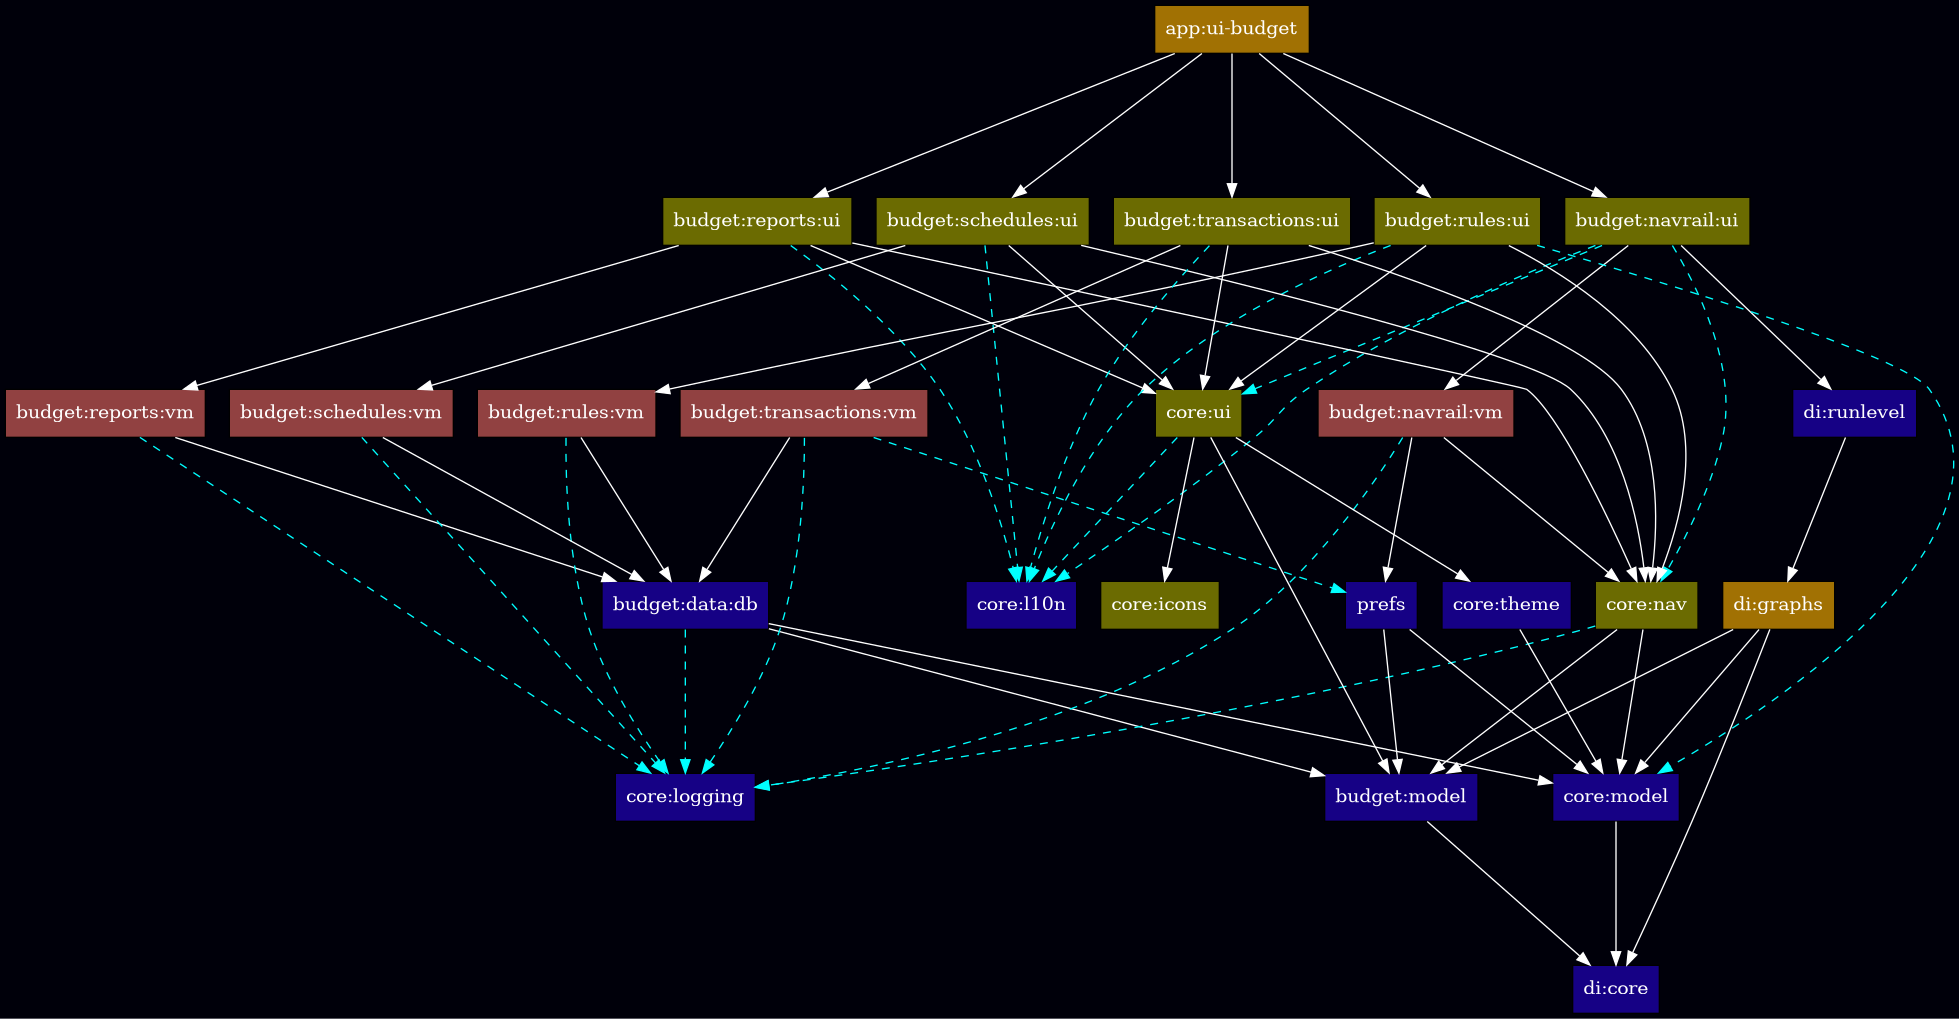
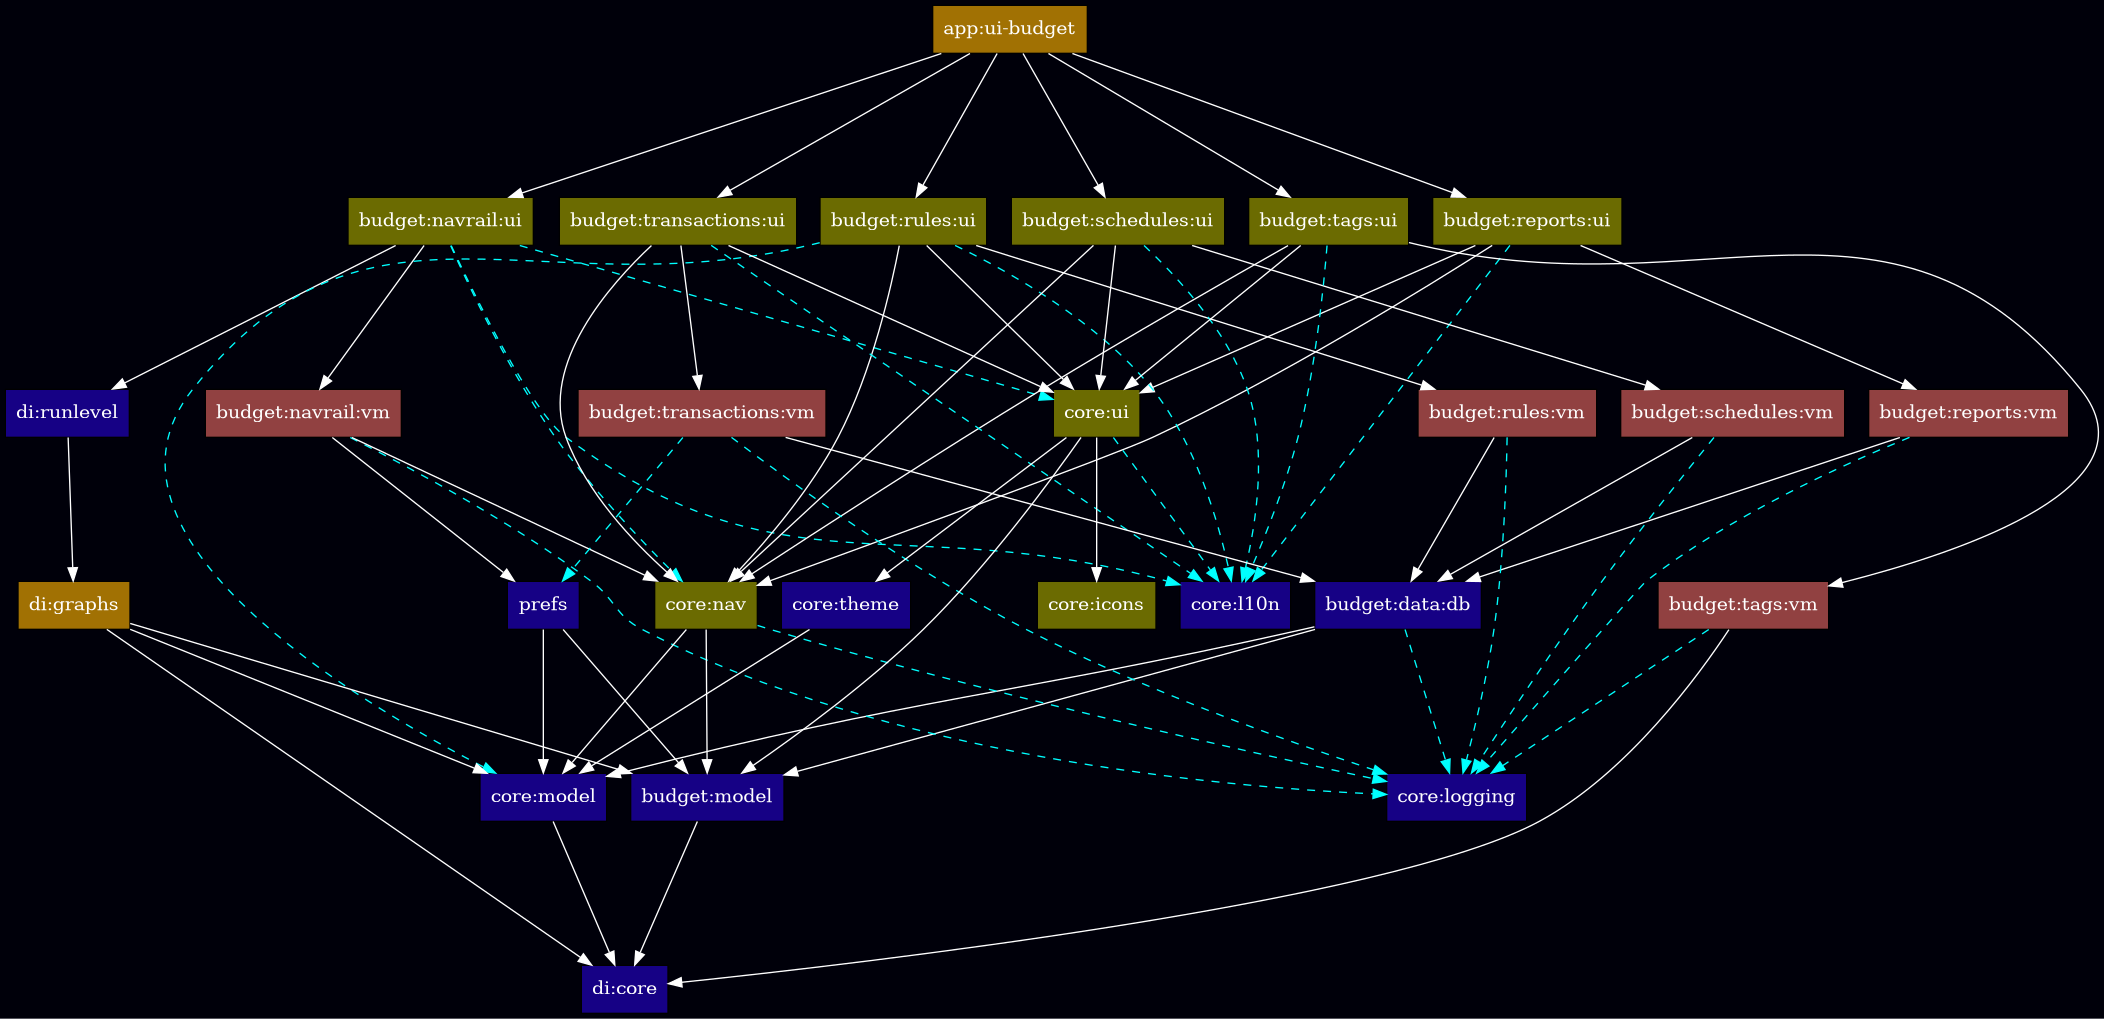
Started

diff --git a/aktual-budget/tags/ui/src/commonMain/kotlin/aktual/budget/tags/ui/list/ListTagsScreen.kt b/aktual-budget/tags/ui/src/commonMain/kotlin/aktual/budget/tags/ui/list/ListTagsScreen.kt
@@ -1,0 +1,64 @@
+package aktual.budget.tags.ui.list
+
+import aktual.budget.tags.vm.list.ListTagsViewModel
+import aktual.core.l10n.Strings
+import aktual.core.theme.Colors
+import aktual.core.ui.AktualTheme.colors
+import aktual.core.ui.ColoredParameters
+import aktual.core.ui.PageBackground
+import aktual.core.ui.PreviewWithColors
+import aktual.core.ui.blurredTopBar
+import aktual.core.ui.rememberBlurredTopBarState
+import aktual.core.ui.transparentTopAppBarColors
+import androidx.compose.foundation.layout.Box
+import androidx.compose.foundation.layout.fillMaxSize
+import androidx.compose.foundation.layout.padding
+import androidx.compose.foundation.lazy.LazyColumn
+import androidx.compose.foundation.lazy.rememberLazyListState
+import androidx.compose.material3.Scaffold
+import androidx.compose.material3.Text
+import androidx.compose.material3.TopAppBar
+import androidx.compose.runtime.Composable
+import androidx.compose.ui.Modifier
+import androidx.compose.ui.tooling.preview.Preview
+import androidx.compose.ui.tooling.preview.PreviewParameter
+import dev.zacsweers.metrox.viewmodel.metroViewModel
+
+@Composable
+internal fun ListTagsScreen(
+  modifier: Modifier = Modifier,
+  @Suppress("UNUSED_PARAMETER") viewModel: ListTagsViewModel = metroViewModel(),
+) {
+  ListTagsScaffold(modifier = modifier)
+}
+
+@Composable
+private fun ListTagsScaffold(modifier: Modifier = Modifier) {
+  val blurState = rememberBlurredTopBarState()
+  val listState = rememberLazyListState()
+
+  Scaffold(
+    modifier = modifier.fillMaxSize(),
+    topBar = {
+      TopAppBar(
+        modifier = Modifier.blurredTopBar(blurState, listState),
+        colors = colors.transparentTopAppBarColors(),
+        title = { Text(text = Strings.tagsTitle) },
+      )
+    },
+  ) { innerPadding ->
+    Box(modifier = Modifier.fillMaxSize()) {
+      PageBackground()
+
+      // Empty for now — content lands here once tags are loaded
+      LazyColumn(modifier = Modifier.fillMaxSize().padding(innerPadding), state = listState) {
+        // TBC
+      }
+    }
+  }
+}
+
+@Preview
+@Composable
+private fun PreviewListTagsScaffold(@PreviewParameter(ColoredParameters::class) colors: Colors) =
+  PreviewWithColors(colors) { ListTagsScaffold() }

diff --git a/aktual-budget/tags/ui/src/commonMain/kotlin/aktual/budget/tags/ui/TagsNavEntryContributor.kt b/aktual-budget/tags/ui/src/commonMain/kotlin/aktual/budget/tags/ui/TagsNavEntryContributor.kt
@@ -1,0 +1,18 @@
+package aktual.budget.tags.ui
+
+import aktual.budget.tags.ui.list.ListTagsScreen
+import aktual.core.nav.BudgetNavEntryContributor
+import aktual.core.nav.BudgetNavKey
+import aktual.core.nav.ListTagsNavRoute
+import aktual.core.nav.NavStack
+import aktual.core.nav.budgetEntry
+import aktual.di.BudgetScope
+import androidx.navigation3.runtime.EntryProviderScope
+import dev.zacsweers.metro.ContributesIntoSet
+
+@ContributesIntoSet(BudgetScope::class)
+class TagsNavEntryContributor : BudgetNavEntryContributor {
+  override fun contribute(scope: EntryProviderScope<BudgetNavKey>, stack: NavStack<BudgetNavKey>) {
+    scope.budgetEntry<ListTagsNavRoute> { ListTagsScreen() }
+  }
+}

diff --git a/aktual-budget/tags/vm/src/commonMain/kotlin/aktual/budget/tags/vm/list/ListTagsViewModel.kt b/aktual-budget/tags/vm/src/commonMain/kotlin/aktual/budget/tags/vm/list/ListTagsViewModel.kt
@@ -1,0 +1,14 @@
+package aktual.budget.tags.vm.list
+
+import aktual.di.BudgetScope
+import androidx.compose.runtime.Stable
+import androidx.lifecycle.ViewModel
+import dev.zacsweers.metro.ContributesIntoMap
+import dev.zacsweers.metrox.viewmodel.ViewModelKey
+
+@Stable
+@ViewModelKey
+@ContributesIntoMap(BudgetScope::class)
+class ListTagsViewModel : ViewModel() {
+  // TBC
+}

diff --git a/aktual-budget/navrail/ui/src/commonMain/kotlin/aktual/budget/navrail/ui/NavSheetItem.kt b/aktual-budget/navrail/ui/src/commonMain/kotlin/aktual/budget/navrail/ui/NavSheetItem.kt
@@ -3,6 +3,7 @@ package aktual.budget.navrail.ui
 import aktual.core.icons.AktualIcons
 import aktual.core.icons.Calendar3
 import aktual.core.icons.Reports
+import aktual.core.icons.Tag
 import aktual.core.icons.Tuning
 import aktual.core.icons.material.Info
 import aktual.core.icons.material.LinearScale
@@ -77,6 +78,7 @@ internal fun BudgetTab.label(): String =
     BudgetTab.Reports -> Strings.reportsTitle
     BudgetTab.Schedules -> Strings.listSchedulesTitle
     BudgetTab.Rules -> Strings.rulesTitle
+    BudgetTab.Tags -> Strings.tagsTitle
     BudgetTab.SwitchBudget -> Strings.budgetNavMenuSwitchBudget
     BudgetTab.LogOut -> Strings.budgetNavMenuLogOut
     BudgetTab.Settings -> Strings.budgetNavMenuSettings
@@ -90,6 +92,7 @@ internal fun BudgetTab.icon(): ImageVector =
     BudgetTab.Reports -> AktualIcons.Reports
     BudgetTab.Schedules -> AktualIcons.Calendar3
     BudgetTab.Rules -> AktualIcons.Tuning
+    BudgetTab.Tags -> AktualIcons.Tag
     BudgetTab.SwitchBudget -> MaterialIcons.SwapHoriz
     BudgetTab.LogOut -> MaterialIcons.Logout
     BudgetTab.Settings -> MaterialIcons.Settings
@@ -106,5 +109,6 @@ internal fun BudgetTab.asNavAction(): BudgetNavAction? =
     BudgetTab.Transactions,
     BudgetTab.Reports,
     BudgetTab.Schedules,
-    BudgetTab.Rules -> null
+    BudgetTab.Rules,
+    BudgetTab.Tags -> null
   }

diff --git a/aktual-core/nav/src/commonMain/kotlin/aktual/core/nav/BudgetNavKey.kt b/aktual-core/nav/src/commonMain/kotlin/aktual/core/nav/BudgetNavKey.kt
@@ -32,4 +32,10 @@ sealed interface BudgetNavKey : NavKey {
     override val tab: BudgetTab
       get() = BudgetTab.Schedules
   }
+
+  @Immutable
+  sealed interface Tags : BudgetNavKey {
+    override val tab: BudgetTab
+      get() = BudgetTab.Tags
+  }
 }

diff --git a/aktual-budget/navrail/ui/src/commonMain/kotlin/aktual/budget/navrail/ui/BudgetNavRail.kt b/aktual-budget/navrail/ui/src/commonMain/kotlin/aktual/budget/navrail/ui/BudgetNavRail.kt
@@ -17,6 +17,7 @@ import aktual.core.nav.BudgetNavKey
 import aktual.core.nav.BudgetTab
 import aktual.core.nav.ListRulesNavRoute
 import aktual.core.nav.ListSchedulesNavRoute
+import aktual.core.nav.ListTagsNavRoute
 import aktual.core.nav.NavStack
 import aktual.core.nav.NavStackImpl
 import aktual.core.nav.ReportsListNavRoute
@@ -118,14 +119,16 @@ internal fun BudgetNavRail(
   val reportsStack = stackWithDefault(ReportsListNavRoute)
   val schedulesStack = stackWithDefault(ListSchedulesNavRoute)
   val rulesStack = stackWithDefault(ListRulesNavRoute)
+  val tagsStack = stackWithDefault(ListTagsNavRoute)
 
   val tabStacks =
-    remember(transactionsStack, reportsStack, rulesStack) {
+    remember(transactionsStack, reportsStack, schedulesStack, rulesStack, tagsStack) {
       persistentMapOf(
         BudgetTab.Transactions to transactionsStack,
         BudgetTab.Reports to reportsStack,
         BudgetTab.Schedules to schedulesStack,
         BudgetTab.Rules to rulesStack,
+        BudgetTab.Tags to tagsStack,
       )
     }
 

diff --git a/aktual-core/nav/src/commonMain/kotlin/aktual/core/nav/BudgetNavigators.kt b/aktual-core/nav/src/commonMain/kotlin/aktual/core/nav/BudgetNavigators.kt
@@ -48,3 +48,8 @@ class EditScheduleNavigator(private val stack: NavStack<BudgetNavKey>) {
 
   operator fun invoke() = stack.push(CreateScheduleNavRoute)
 }
+
+@Immutable
+class ListTagsNavigator(private val stack: NavStack<BudgetNavKey>) {
+  operator fun invoke() = stack.push(ListTagsNavRoute)
+}

diff --git a/aktual-test/smoke/src/commonTest/kotlin/aktual/test/ViewModelSmokeTest.kt b/aktual-test/smoke/src/commonTest/kotlin/aktual/test/ViewModelSmokeTest.kt
@@ -13,6 +13,7 @@ import aktual.budget.rules.vm.edit.EditRuleViewModel
 import aktual.budget.rules.vm.list.ListRulesViewModel
 import aktual.budget.schedules.vm.list.ListSchedulesViewModel
 import aktual.budget.sync.vm.SyncBudgetViewModel
+import aktual.budget.tags.vm.list.ListTagsViewModel
 import aktual.budget.transactions.vm.TransactionsViewModel
 import aktual.core.theme.DarkColors
 import aktual.metrics.vm.MetricsViewModel
@@ -102,6 +103,8 @@ abstract class ViewModelSmokeTest<G : TestAppGraph> {
   @Test fun listRules() = testSavedStateVM<ListRulesViewModel>()
 
   @Test fun listSchedules() = testSavedStateVM<ListSchedulesViewModel>()
+
+  @Test fun listTags() = testVm<ListTagsViewModel>()
 
   @Test fun login() = testVm<LoginViewModel>()
 

diff --git a/aktual-core/nav/src/commonMain/kotlin/aktual/core/nav/BudgetRoutes.kt b/aktual-core/nav/src/commonMain/kotlin/aktual/core/nav/BudgetRoutes.kt
@@ -34,3 +34,5 @@ value class EditRuleNavRoute(val id: RuleId) : BudgetNavKey.Rules
 @Immutable
 @Serializable
 value class EditScheduleNavRoute(val id: ScheduleId) : BudgetNavKey.Schedules
+
+@Immutable @Serializable data object ListTagsNavRoute : BudgetNavKey.Tags

diff --git a/aktual-core/nav/src/commonMain/kotlin/aktual/core/nav/BudgetTab.kt b/aktual-core/nav/src/commonMain/kotlin/aktual/core/nav/BudgetTab.kt
@@ -8,6 +8,7 @@ enum class BudgetTab(val category: Category) {
   Reports(Category.Tab),
   Schedules(Category.Tab),
   Rules(Category.Tab),
+  Tags(Category.Tab),
   SwitchBudget(Category.Action),
   LogOut(Category.Action),
   Settings(Category.Action),

diff --git a/aktual-budget/tags/ui/README.md b/aktual-budget/tags/ui/README.md
@@ -1,0 +1,7 @@
+# aktual-budget:tags:ui
+
+<!--region chart-->
+![chart](atlas.png)
+
+![legend](../../../atlas/legend.png)
+<!--endregion-->

diff --git a/aktual-budget/tags/vm/README.md b/aktual-budget/tags/vm/README.md
@@ -1,0 +1,7 @@
+# aktual-budget:tags:vm
+
+<!--region chart-->
+![chart](atlas.png)
+
+![legend](../../../atlas/legend.png)
+<!--endregion-->